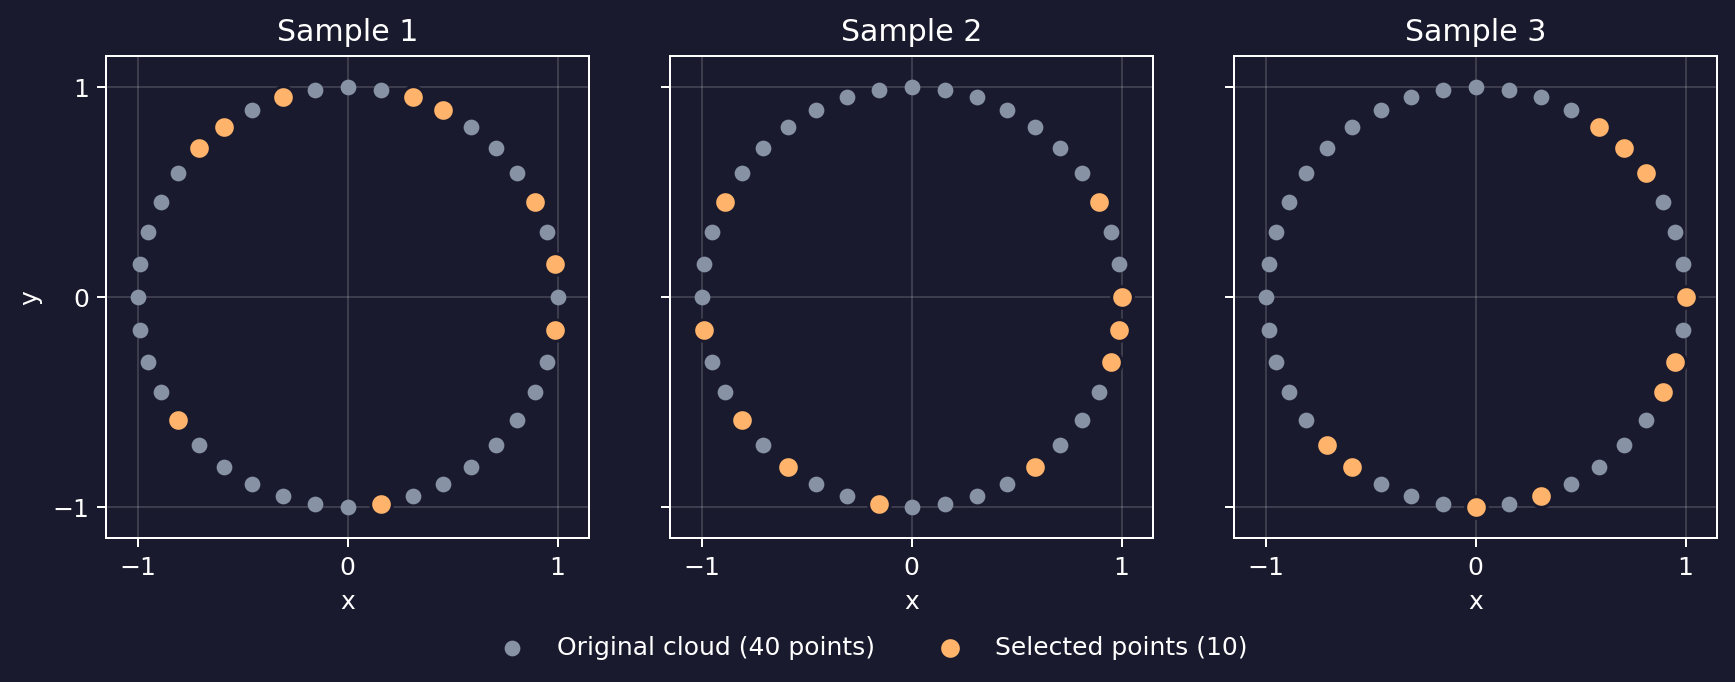
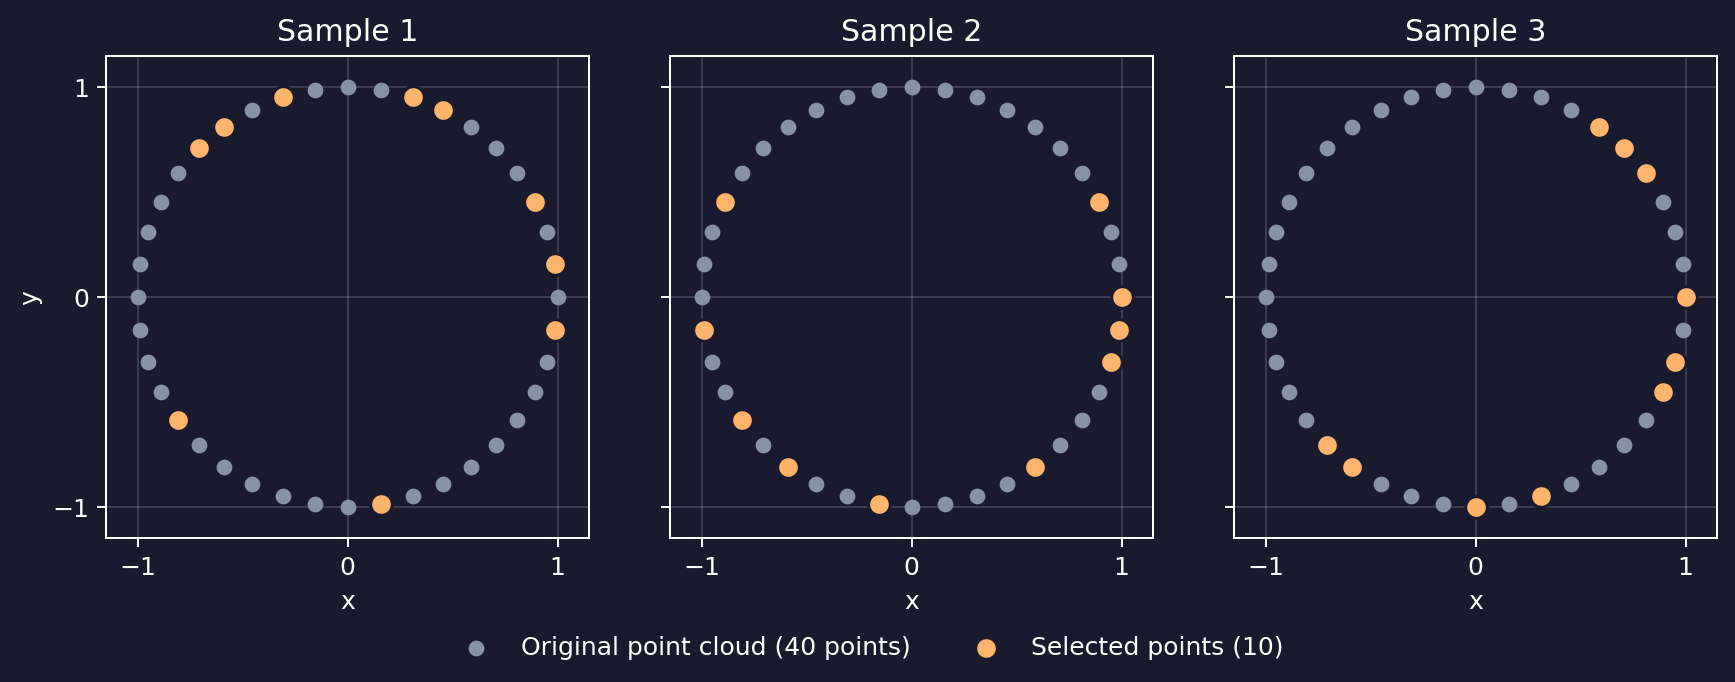
Add relative subsampling figures and clarify point cloud labels

Changed region(s): [[0.249, 0.9238, 0.747, 0.9853]]

diff --git a/docs/_static/gen_filter_function_fig.py b/docs/_static/gen_filter_function_fig.py
@@ -1,0 +1,111 @@
+"""Illustrate mapping points to filter values and then to sampling weights."""
+
+from pathlib import Path
+
+import matplotlib
+
+matplotlib.use("Agg")
+
+# -- docs snippet start filter_function --
+import matplotlib.pyplot as plt
+import numpy as np
+
+
+def plot_filter_function(*, dark=False):
+    query = np.array([0.0, 0.0])
+    points = np.array([
+        [0.24, 0.32],   # A: distance 0.4
+        [0.64, -0.48],  # B: distance 0.8
+        [-0.72, 0.96],  # C: distance 1.2
+        [-1.28, -0.96], # D: distance 1.6
+    ])
+    distances = np.linalg.norm(points - query, axis=1)
+    sigma = 0.9
+    weights = np.exp(-0.5 * (distances / sigma)**2)
+
+    ink = "#e7edf5" if dark else "#253746"
+    muted = "#8996a8" if dark else "#7b8894"
+    colors = (["#ffa576", "#73b6f5", "#6bd1b8", "#c8a0ee"] if dark else
+              ["#c95223", "#246caa", "#168570", "#8257a6"])
+    # Two rows keep text readable at the documentation column's laptop width.
+    fig = plt.figure(figsize=(7.2, 5.6))
+    grid = fig.add_gridspec(2, 2, height_ratios=[1, 1], width_ratios=[1, 1.3])
+    cloud_ax = fig.add_subplot(grid[0, :])
+    line_ax = fig.add_subplot(grid[1, 0])
+    weight_ax = fig.add_subplot(grid[1, 1])
+    fig.subplots_adjust(left=0.06, right=0.97, bottom=0.22, top=0.84,
+                        wspace=0.5, hspace=0.4)
+
+    # Keep labels about eight points from their markers, including diagonals.
+    # Each point keeps its letter and color throughout the construction.
+    for point, label, color in zip(points, "ABCD", colors):
+        cloud_ax.plot([query[0], point[0]], [query[1], point[1]],
+                      color=color, linewidth=1.1, alpha=0.65)
+        cloud_ax.scatter(*point, s=45, color=color, zorder=3)
+        cloud_ax.annotate(label, point,
+                          xytext=(-8, 0) if label == "D" else (6, 6),
+                          textcoords="offset points",
+                          ha="right" if label == "D" else "left",
+                          va="center" if label == "D" else "bottom",
+                          color=color, fontsize=11)
+    cloud_ax.scatter(*query, marker="x", s=80, linewidths=2, color=ink, zorder=4)
+    cloud_ax.annotate("q", query, xytext=(0, -8), textcoords="offset points",
+                      ha="center", va="top", fontsize=11, color=ink)
+    cloud_ax.set(xlim=(-1.55, 1.05), ylim=(-1.25, 1.3), aspect="equal")
+    cloud_ax.set_axis_off()
+    cloud_ax.set_title("1. Measure distance from q", fontsize=11, pad=12, color=ink)
+
+    line_ax.set(xlim=(-0.05, 1.85), ylim=(-0.55, 0.55), yticks=[],
+                xticks=[0, 0.4, 0.8, 1.2, 1.6], xlabel=r"Filter value $d = f_q(x)$")
+    line_ax.spines[["left", "right", "top"]].set_visible(False)
+    line_ax.spines["bottom"].set_position(("data", 0))
+    line_ax.spines["bottom"].set_color(muted)
+    line_ax.xaxis.set_label_coords(0.5, 0.15)
+    line_ax.set_title("2. Place on the filter line", fontsize=11, pad=12, color=ink)
+    for distance, label, color in zip(distances, "ABCD", colors):
+        line_ax.scatter(distance, 0, s=45, color=color, zorder=3)
+        line_ax.annotate(label, (distance, 0), xytext=(0, 8),
+                         textcoords="offset points", ha="center", va="bottom",
+                         color=color, fontsize=11)
+
+    d = np.linspace(0, 1.85, 400)
+    weight_ax.plot(d, np.exp(-0.5 * (d / sigma)**2), color=ink, linewidth=1.8)
+    for distance, weight, label, color in zip(distances, weights, "ABCD", colors):
+        weight_ax.scatter(distance, 0, s=30, facecolors="none", edgecolors=color, zorder=3)
+        weight_ax.annotate("", xy=(distance, weight), xytext=(distance, 0.02),
+                           arrowprops={"arrowstyle": "->", "color": color, "lw": 1.2})
+        weight_ax.scatter(distance, weight, s=45, color=color, zorder=4)
+        weight_ax.annotate(label, (distance, weight), xytext=(6, 6),
+                           textcoords="offset points", ha="left", va="bottom",
+                           color=color, fontsize=11)
+    weight_ax.set(xlim=(-0.05, 1.85), ylim=(-0.06, 1.1),
+                  xticks=[0, 0.4, 0.8, 1.2, 1.6], yticks=[0, 0.5, 1],
+                  xlabel=r"Filter value $d$", ylabel=r"Weight $W(d)$")
+    weight_ax.spines[["top", "right"]].set_visible(False)
+    weight_ax.spines["bottom"].set_position(("data", 0))
+    for spine in weight_ax.spines.values():
+        spine.set_color(muted)
+        spine.set_linewidth(0.6)
+    weight_ax.set_title("3. Weight by distribution", fontsize=11, pad=12, color=ink)
+
+    for ax in (line_ax, weight_ax):
+        ax.tick_params(length=3, width=0.6, labelsize=9, colors=ink)
+        ax.grid(False)
+    return fig
+# -- docs snippet end filter_function --
+
+
+if __name__ == "__main__":
+    for theme, style, background in [
+        ("light", "default", "white"),
+        ("dark", "dark_background", "#1a1a2e"),
+    ]:
+        with plt.style.context(style), plt.rc_context({
+            "figure.facecolor": background,
+            "axes.facecolor": background,
+        }):
+            fig = plot_filter_function(dark=theme == "dark")
+            output = Path(__file__).with_name(f"subsampling_filter_function_{theme}.png")
+            fig.savefig(output, dpi=180, bbox_inches="tight")
+            plt.close(fig)
+            print(f"Saved {output}")

diff --git a/docs/_static/gen_relative_subsampling_fig.py b/docs/_static/gen_relative_subsampling_fig.py
@@ -1,0 +1,114 @@
+"""Generate the relative subsampling example for light and dark themes."""
+
+from pathlib import Path
+
+import matplotlib
+
+matplotlib.use("Agg")
+
+# -- docs snippet start relative_subsamples --
+import matplotlib.pyplot as plt
+from matplotlib.colors import LinearSegmentedColormap, ListedColormap
+import numpy as np
+import stablebear as sb
+
+
+def plot_relative_subsamples(*, uniform=False, dark=False):
+    point_color = "#b8c5cf" if dark else "#526474"
+    selected_color = "#ff9c70" if dark else "#cf512b"
+    query_color = "#16384b"
+    outline_color = "#202936" if dark else "#ffffff"
+    rng = np.random.default_rng(12)
+    points = rng.uniform(-1, 1, size=(100, 2))
+    queries = np.array([[-0.6, -0.3], [0.0, 0.55], [0.6, -0.3]])
+    if uniform:
+        distribution = sb.distributions.Uniform(start=0, end=0.65)
+        title = r"Uniform distance weights ($0 \leq d < 0.65$)"
+    else:
+        distribution = sb.distributions.Gaussian(sigma=0.4)
+        title = r"Gaussian distance weights ($\sigma = 0.4$)"
+    samples = sb.random.subsample_relative(
+        sb.PointCloud(points), queries, n_points=10,
+        distribution=distribution,
+        generator=sb.random.Generator(seed=5),
+    )
+
+    extent = (-1.15, 1.15, -1.15, 1.15)
+    grid = np.linspace(extent[0], extent[1], 601)
+    x, y = np.meshgrid(grid, grid)
+    # Higher weights are lighter in both themes, with a wide luminance range.
+    field_colors = (["#172331", "#316c90", "#8bd1ed"] if dark else
+                    ["#155477", "#78acc9", "#f5f7f9"])
+    cmap = (ListedColormap([field_colors[0], field_colors[-1]]) if uniform else
+            LinearSegmentedColormap.from_list("distance_weight", field_colors))
+
+    fig, axes = plt.subplots(1, 3, figsize=(11, 4), sharex=True, sharey=True)
+    for i, ax in enumerate(axes):
+        # Apply the weight function to distance across the plane for illustration.
+        # Sampling normalizes its values only at the reference points.
+        distance = np.hypot(x - queries[i, 0], y - queries[i, 1])
+        if uniform:
+            weight = ((distance >= distribution.start)
+                      & (distance < distribution.end)).astype(float)
+        else:
+            weight = np.exp(-0.5 * ((distance - distribution.mean)
+                                   / distribution.sigma)**2)
+        heatmap = ax.imshow(weight, origin="lower", extent=extent,
+                            cmap=cmap, vmin=0, vmax=1, zorder=0,
+                            interpolation="nearest")
+        selected = np.asarray(samples[i, 0])
+        ax.scatter(points[:, 0], points[:, 1], s=17, color=point_color,
+                   edgecolors=outline_color, linewidths=0.45,
+                   label="Reference (100 points)", zorder=2)
+        ax.scatter(selected[:, 0], selected[:, 1], s=52, color=selected_color,
+                   edgecolors=outline_color, linewidths=0.9,
+                   label="Sample (10 points)", zorder=3)
+        ax.scatter(*queries[i], s=100, color=query_color, marker="x",
+                   linewidths=2,
+                   label="Query", zorder=4)
+        ax.set(title=f"Query {i + 1}", xlabel="x", aspect="equal",
+               xlim=(-1.15, 1.15), ylim=(-1.15, 1.15),
+               xticks=[-1, 0, 1], yticks=[-1, 0, 1])
+        ax.grid(False)
+        ax.spines[["top", "right"]].set_visible(False)
+        for spine in ax.spines.values():
+            spine.set_color("#617080" if dark else "#b7c2ca")
+            spine.set_linewidth(0.6)
+        ax.tick_params(length=3, width=0.6, labelsize=9)
+        ax.set_title(f"Query {i + 1}", fontsize=11, pad=10)
+
+    axes[0].set_ylabel("y")
+    handles, labels = axes[0].get_legend_handles_labels()
+    legend = fig.legend(handles, labels, loc="lower center", ncol=3, frameon=False,
+                        bbox_to_anchor=(0.47, 0.01))
+    # The legend sits on the page background rather than the heatmap peak.
+    legend.legend_handles[-1].set_color("#ffffff" if dark else "#16384b")
+    fig.suptitle(title, y=0.98, fontsize=13)
+    fig.subplots_adjust(left=0.06, right=0.87, bottom=0.22, top=0.86,
+                        wspace=0.12)
+    colorbar_ax = fig.add_axes((0.9, 0.22, 0.015, 0.64))
+    colorbar = fig.colorbar(heatmap, cax=colorbar_ax, label="Distance weight (unnormalized)",
+                 ticks=[0, 1] if uniform else [0, 0.25, 0.5, 0.75, 1])
+    colorbar.outline.set_visible(False)
+    colorbar.ax.tick_params(length=0, labelsize=9)
+    return fig
+# -- docs snippet end relative_subsamples --
+
+
+if __name__ == "__main__":
+    for theme, style, background in [
+        ("light", "default", "white"),
+        ("dark", "dark_background", "#1a1a2e"),
+    ]:
+        with plt.style.context(style), plt.rc_context({
+            "figure.facecolor": background,
+            "axes.facecolor": background,
+        }):
+            for uniform, suffix in [(False, ""), (True, "_uniform")]:
+                fig = plot_relative_subsamples(uniform=uniform, dark=theme == "dark")
+                output = Path(__file__).with_name(
+                    f"subsampling_relative{suffix}_{theme}.png"
+                )
+                fig.savefig(output, dpi=180, bbox_inches="tight")
+                plt.close(fig)
+                print(f"Saved {output}")

diff --git a/docs/_static/gen_homological_kernel_figs.py b/docs/_static/gen_homological_kernel_figs.py
@@ -15,13 +15,13 @@ HERE = Path(__file__).parent
 
 # -- docs snippet start hkernel_quartet_kernel --
 def diagonal_projection(cloud):
-    """Project every point of a 2D cloud onto the diagonal y = x."""
+    """Project every point of a 2D point cloud onto the diagonal y = x."""
     midpoint = cloud.mean(axis=1, keepdims=True)
     return np.broadcast_to(midpoint, cloud.shape).copy()
 
 
 def kernel_stable_rank(cloud):
-    """Stable rank of the homological kernel of a cloud and its projection."""
+    """Stable rank of the homological kernel of a point cloud and its projection."""
     kernels = persistence.compute_homological_kernel(cloud, diagonal_projection(cloud))
     return persistence.barcode_to_stable_rank(kernels)
 
@@ -32,7 +32,7 @@ def kernel_score(stable_ranks):
 # -- docs snippet end hkernel_quartet_kernel --
 
 
-# The small "correlation cloud" used throughout the Background section: two
+# The small "correlation point cloud" used throughout the Background section: two
 # points on the diagonal and two on opposite sides of it. All four project to
 # distinct spots, so every merge happens at a visibly positive scale.
 BACKGROUND_CLOUD = np.array([[0.0, 0.0], [4.0, 0.0], [1.0, 4.0], [3.0, 3.0]])
@@ -149,7 +149,7 @@ def plot_merging(colors=("#2a78d6", "#eb6834", "#1baf7a", "#eda100"),
         for col, t in enumerate(scales):
             ax = fig.add_subplot(gs[row, col])
             # The diagonal the points are projected onto, in both rows: in the
-            # original cloud it shows where each point will land.
+            # original point cloud it shows where each point will land.
             ax.axline((0, 0), slope=1, color=grid_color, linestyle="--",
                       linewidth=0.8)
             comp = _components(points, t)
@@ -220,7 +220,7 @@ def plot_quartet(colors=("#2a78d6", "#eb6834", "#1baf7a", "#eda100"),
     for column, color, (name, cloud) in zip(range(4), colors, quartet.items()):
         cloud_ax, srank_ax = axes[0, column], axes[1, column]
 
-        # Top row: the cloud, the diagonal, and where each point projects to.
+        # Top row: the point cloud, the diagonal, and where each point projects to.
         projected = diagonal_projection(cloud)
         r = np.corrcoef(cloud[:, 0], cloud[:, 1])[0, 1]
         cloud_ax.axline((0, 0), slope=1, color=grid_color, linestyle="--",
@@ -285,7 +285,7 @@ def plot_invariants(colors=("#2a78d6", "#eb6834", "#1baf7a", "#eda100")):
             srank = persistence.barcode_to_stable_rank(bc)
             plotpcf(srank, ax=ax, color=color, linewidth=2, label=name)
 
-    for ax, title in zip(axes, ["$H_0$ of the cloud", "$H_1$ of the cloud",
+    for ax, title in zip(axes, ["$H_0$ of the point cloud", "$H_1$ of the point cloud",
                                 "homological kernel"]):
         ax.set_title(title, fontsize=10)
         ax.set_xlabel("t")

diff --git a/docs/_static/gen_subsampling_fig.py b/docs/_static/gen_subsampling_fig.py
@@ -25,7 +25,7 @@ def plot_point_cloud_subsamples(point_color="#94a3b8", selected_color="#d55e00")
     for i, ax in enumerate(axes):
         selected = np.asarray(samples[i])
         ax.scatter(points[:, 0], points[:, 1], s=28, color=point_color,
-                   label="Original cloud (40 points)", zorder=2)
+                   label="Original point cloud (40 points)", zorder=2)
         ax.scatter(selected[:, 0], selected[:, 1], s=75, color=selected_color,
                    edgecolors=ax.get_facecolor(), linewidths=1.2,
                    label="Selected points (10)", zorder=3)
